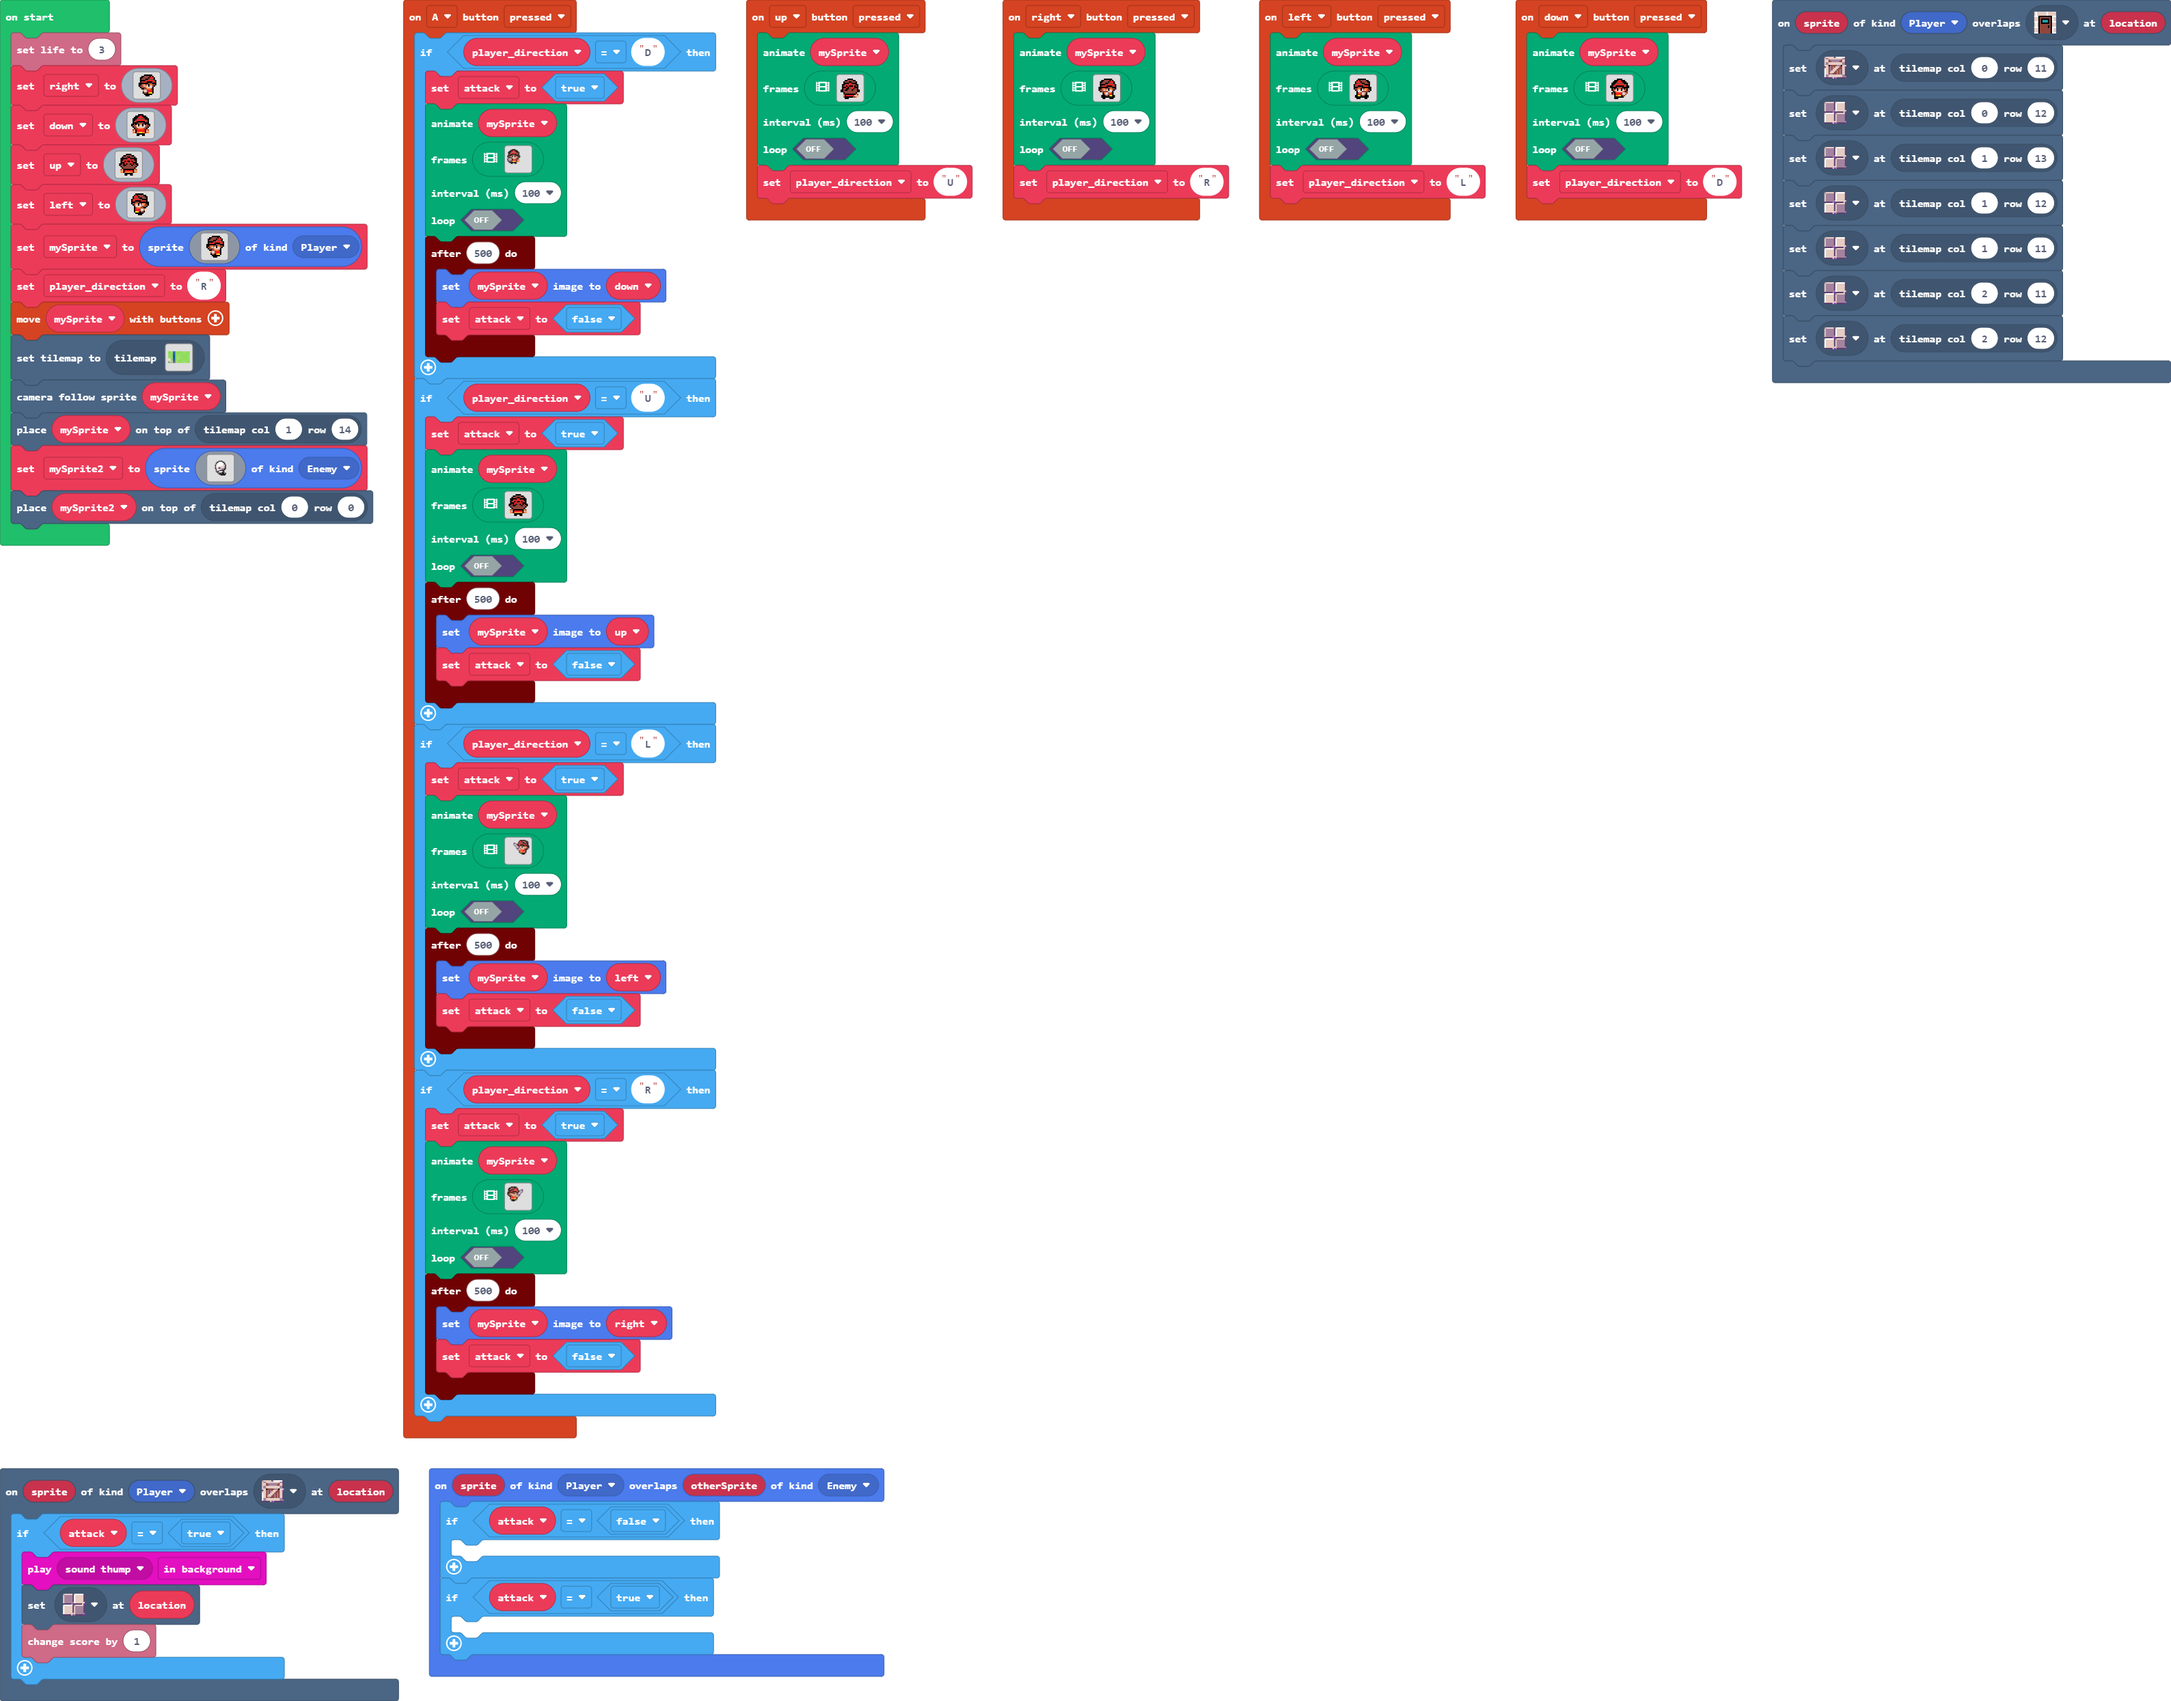
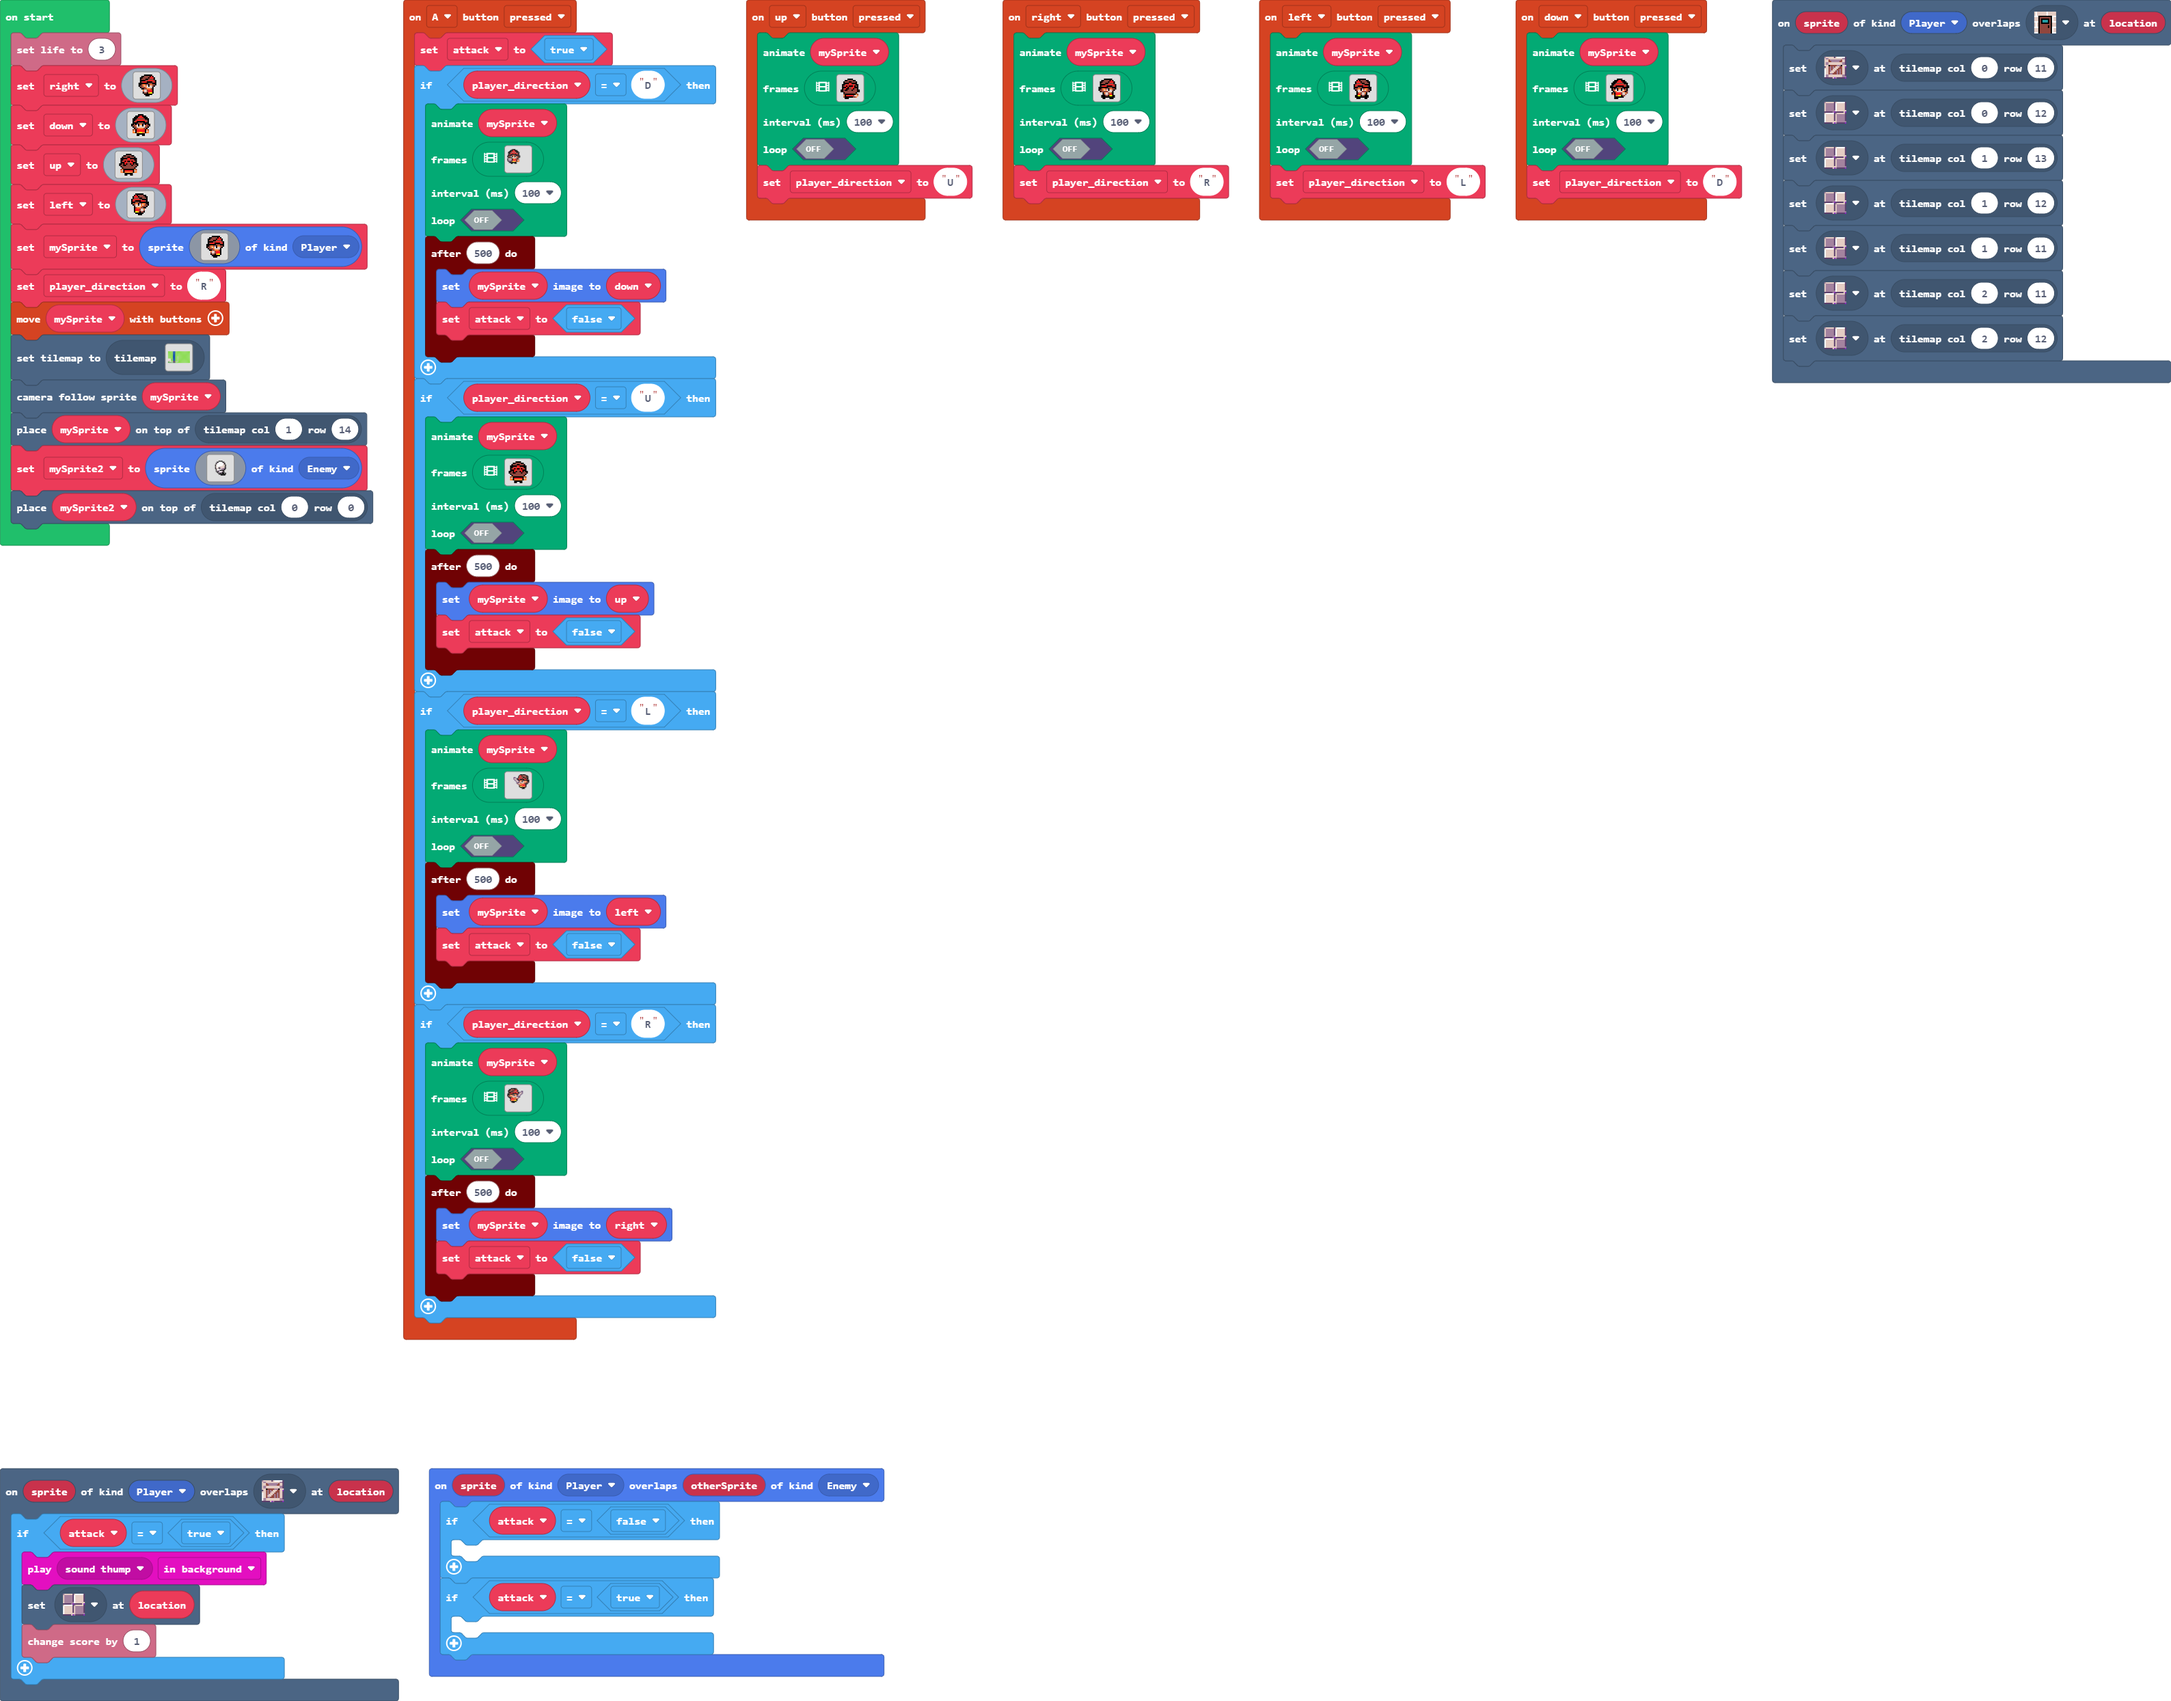
Update main.blocks, main.ts

Changed region(s): [[0.187, 0.2475, 0.3428, 0.8662], [0.187, 0.0, 0.3428, 0.0619]]

diff --git a/main.ts b/main.ts
@@ -83,8 +83,8 @@ scene.onOverlapTile(SpriteKind.Player, assets.tile`myTile`, function (sprite, lo
     }
 })
 controller.A.onEvent(ControllerButtonEvent.Pressed, function () {
+    attack = true
     if (player_direction == "D") {
-        attack = true
         animation.runImageAnimation(
         mySprite,
         [img`
@@ -197,7 +197,6 @@ controller.A.onEvent(ControllerButtonEvent.Pressed, function () {
         })
     }
     if (player_direction == "U") {
-        attack = true
         animation.runImageAnimation(
         mySprite,
         [img`
@@ -278,7 +277,6 @@ controller.A.onEvent(ControllerButtonEvent.Pressed, function () {
         })
     }
     if (player_direction == "L") {
-        attack = true
         animation.runImageAnimation(
         mySprite,
         [img`
@@ -366,7 +364,6 @@ controller.A.onEvent(ControllerButtonEvent.Pressed, function () {
         })
     }
     if (player_direction == "R") {
-        attack = true
         animation.runImageAnimation(
         mySprite,
         [img`
